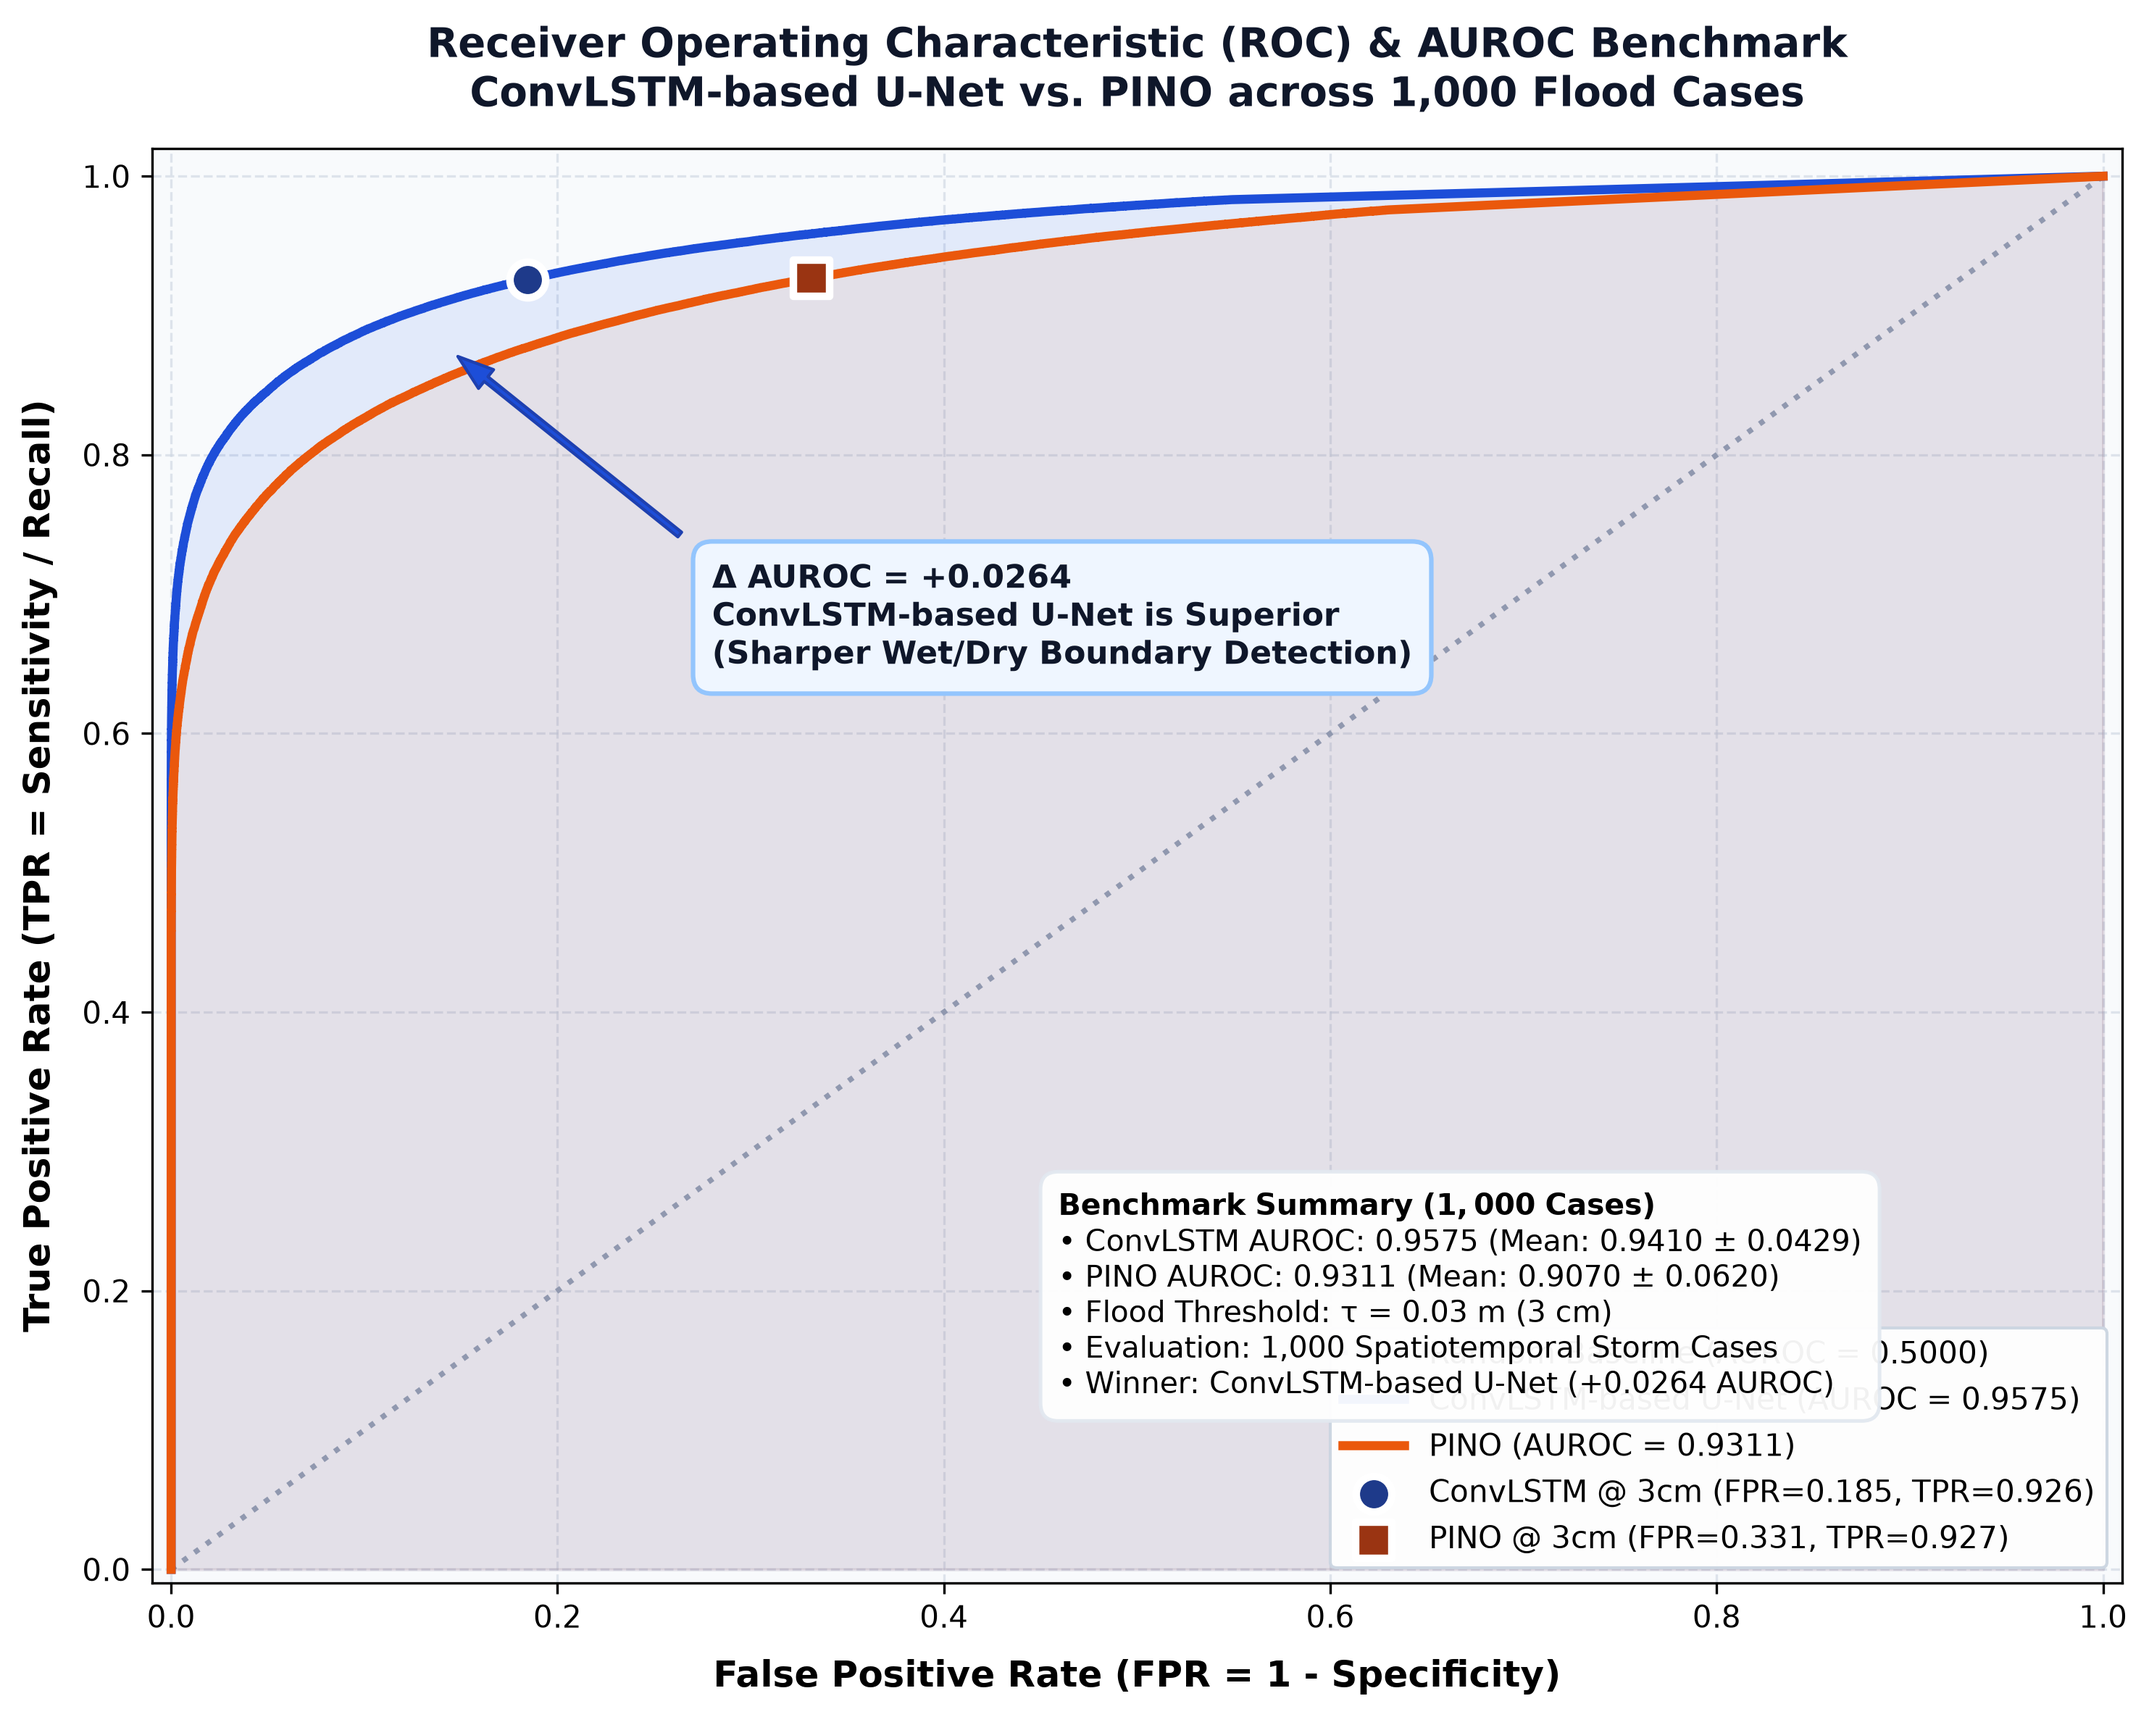
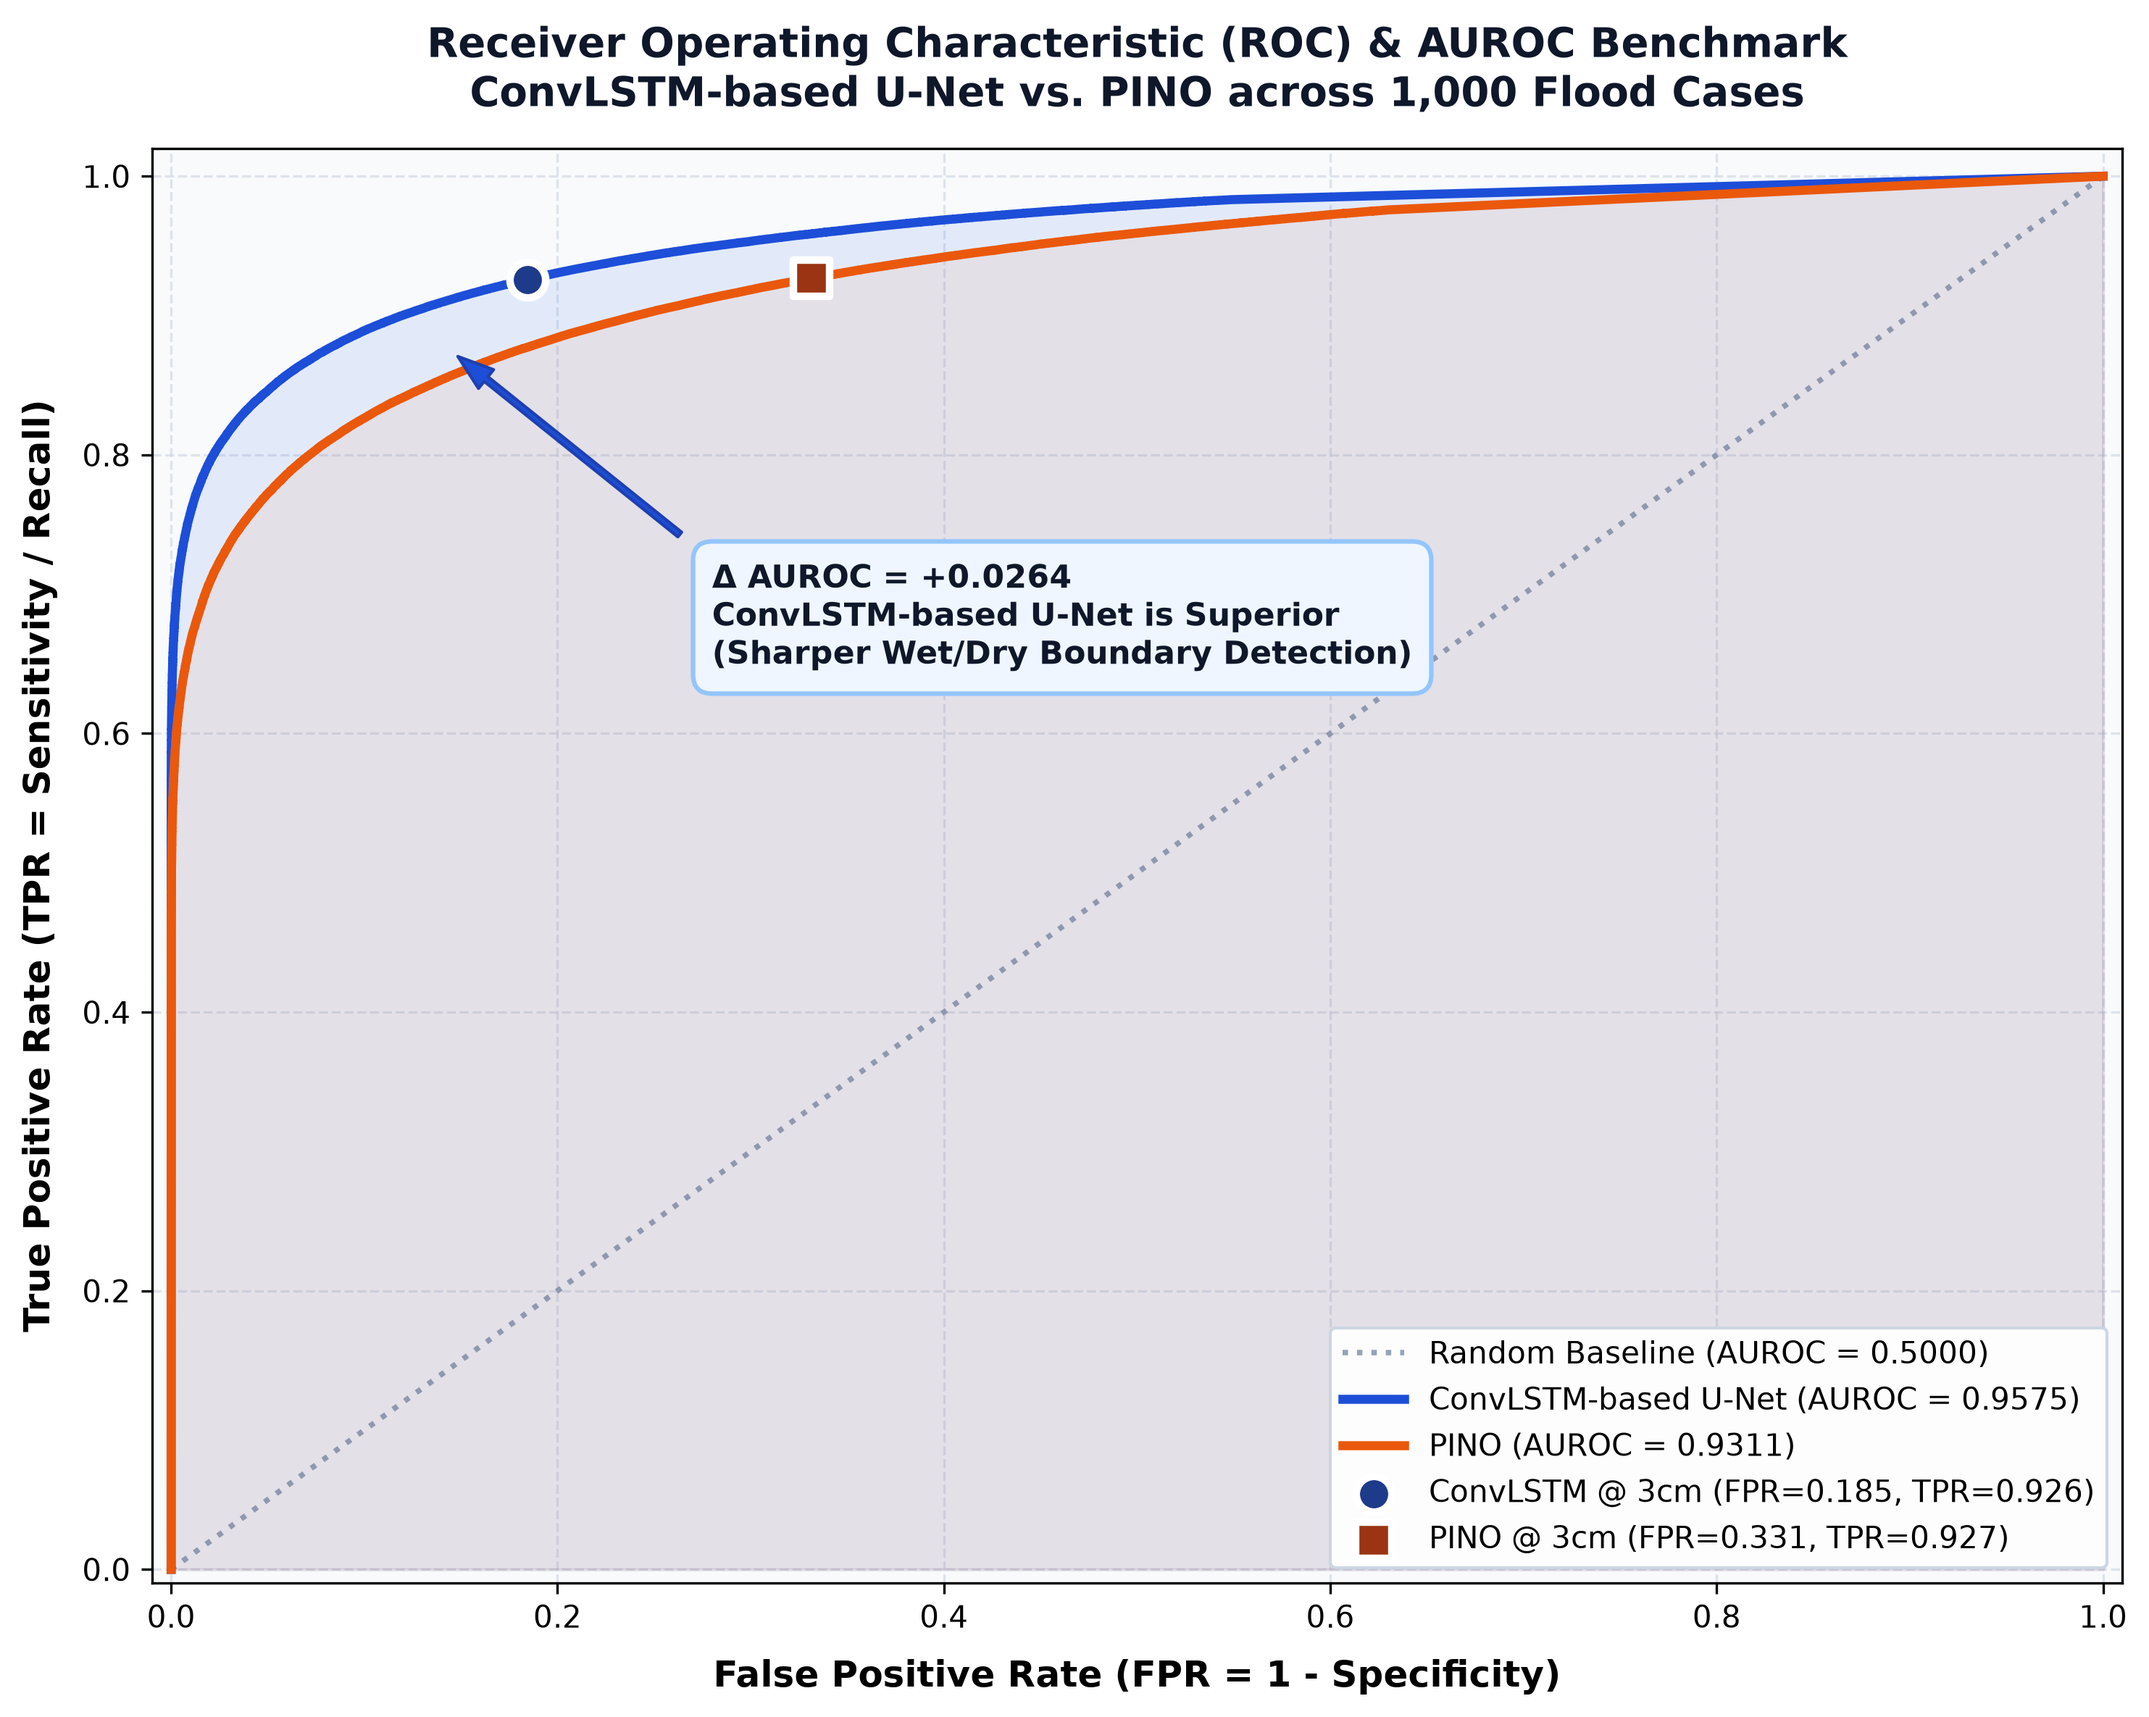
Remove in-plot summary box from AUROC graph for clean ROC curves

Changed region(s): [[0.4653, 0.6557, 0.8995, 0.843]]

diff --git a/scripts/plot_only_auroc_1000_cases.py b/scripts/plot_only_auroc_1000_cases.py
@@ -264,31 +264,7 @@ def plot_only_auroc(results: Dict[str, Any], output_path: Path) -> None:
         zorder=7,
     )
 
-    # Explanatory Info Box
-    summary_text = (
-        r"$\bf{Benchmark\ Summary\ (1,000\ Cases)}$" "\n"
-        f"• ConvLSTM AUROC: {c_auc:.4f} (Mean: {results['mean_case_auroc_conv']:.4f} ± {results['std_case_auroc_conv']:.4f})\n"
-        f"• PINO AUROC: {p_auc:.4f} (Mean: {results['mean_case_auroc_pino']:.4f} ± {results['std_case_auroc_pino']:.4f})\n"
-        f"• Flood Threshold: τ = {FLOOD_THRESHOLD_M:.2f} m (3 cm)\n"
-        f"• Evaluation: 1,000 Spatiotemporal Storm Cases\n"
-        f"• Winner: ConvLSTM-based U-Net (+{delta_auc:.4f} AUROC)"
-    )
-    ax.text(
-        0.46,
-        0.20,
-        summary_text,
-        transform=ax.transAxes,
-        fontsize=9.8,
-        verticalalignment="center",
-        bbox=dict(
-            boxstyle="round,pad=0.6",
-            facecolor="#ffffff",
-            edgecolor="#e2e8f0",
-            linewidth=1.2,
-            alpha=0.95,
-        ),
-        zorder=7,
-    )
+
 
     # Axes limits & labels
     ax.set_xlim([-0.01, 1.01])
